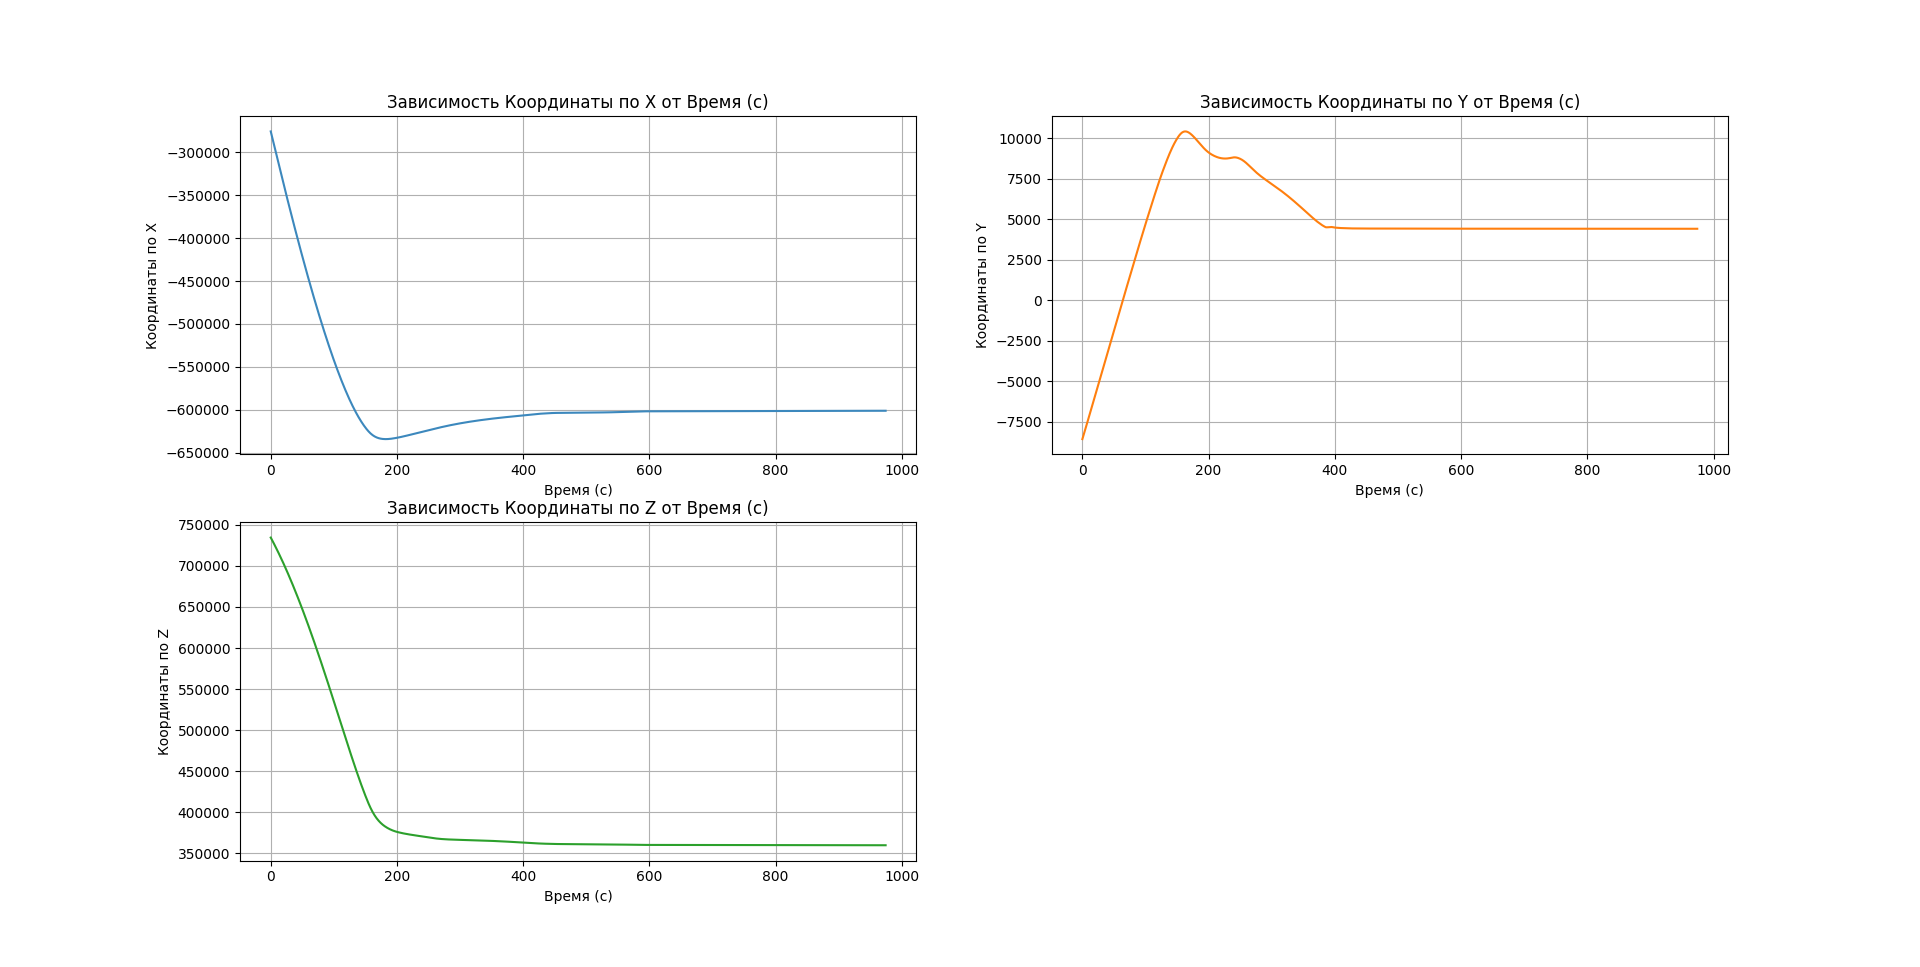
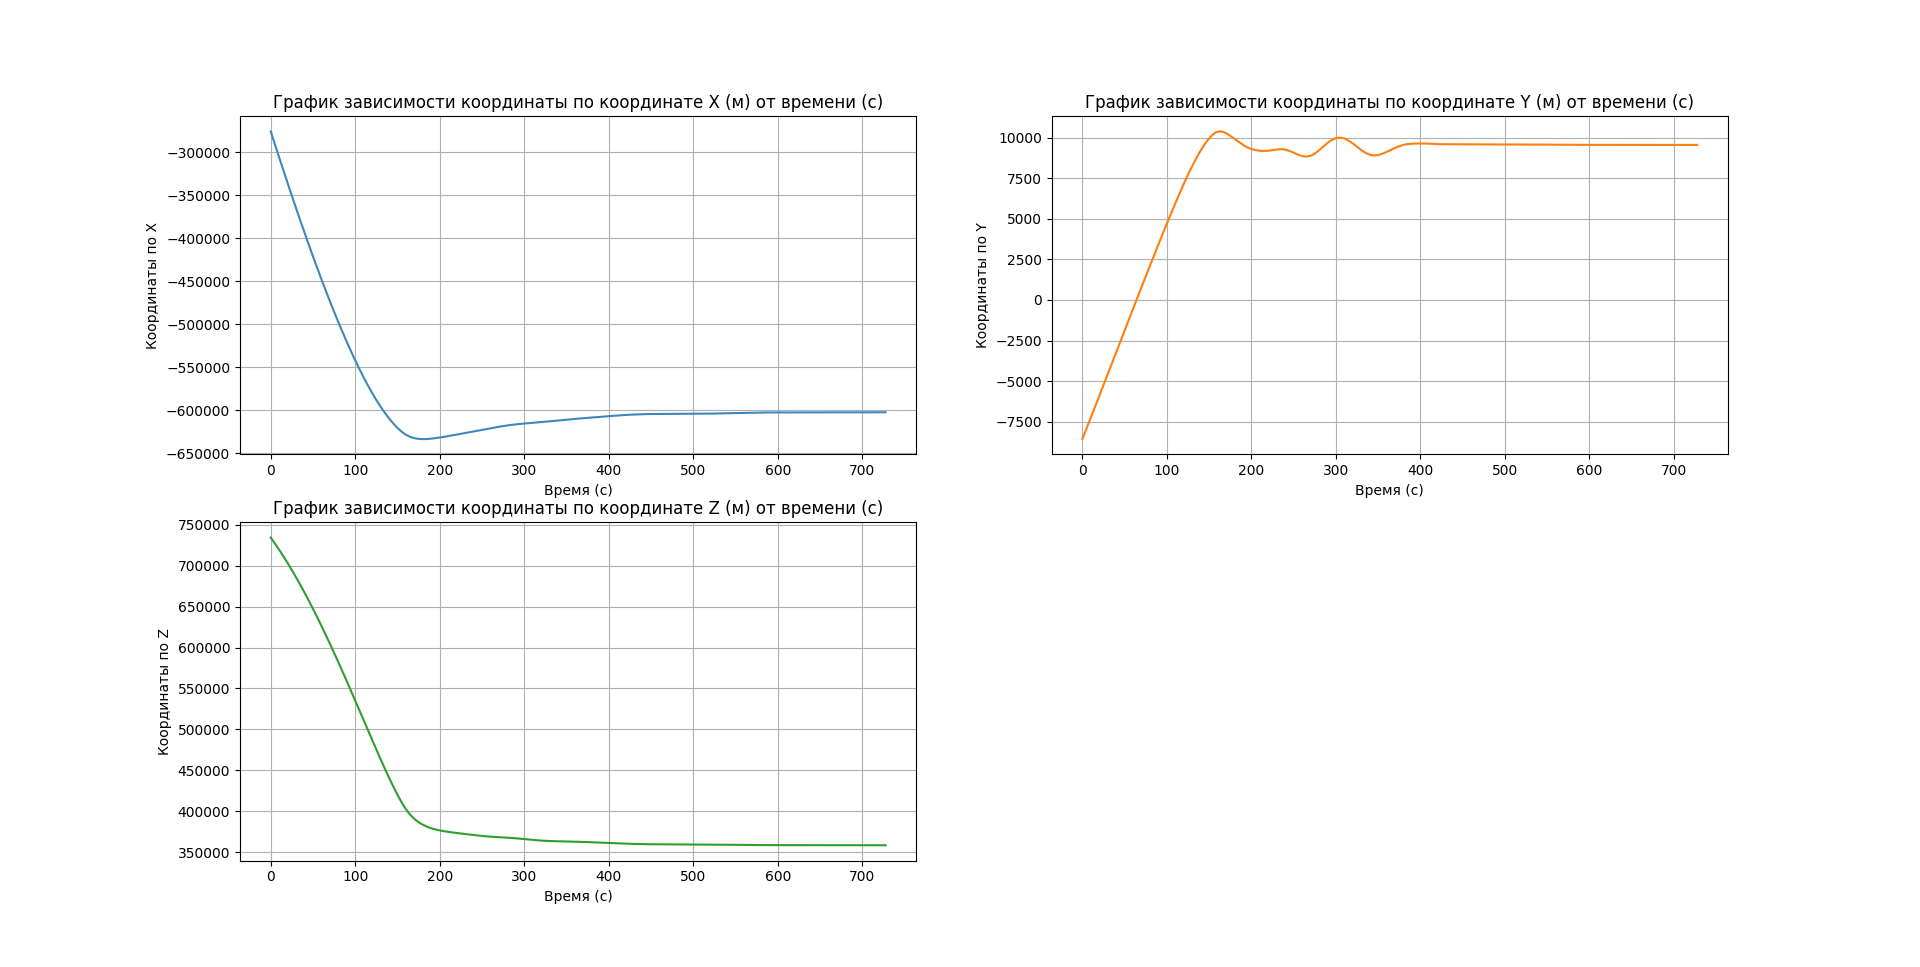
Сбор данных и графики

diff --git a/Graphicts.py b/Graphicts.py
@@ -1,8 +1,9 @@
 import matplotlib
 import numpy as np
-from mpl_toolkits.mplot3d import Axes3D
 
 matplotlib.use('TkAgg')
+from mpl_toolkits.mplot3d import Axes3D
+
 
 import matplotlib.pyplot as plt
 from mpl_toolkits.mplot3d import Axes3D
@@ -19,13 +20,11 @@ position_z = list()
 Pressure = list()
 pos_xmy = list()
 
-def pressure_h(h):
-    H = 7000
-    return 5 * np.exp(-h/H)
 
 with open("result.txt") as file:
+# with open("Result1.txt") as file:
     for i in file.readlines():
-        t, h, vx, vy, vz, sp, pz, py, px = i.split(" ")
+        t, h, vx, vy, vz, sp, pz, py, px, pressure = i.split(" ")
         times.append(float(t))
         height.append(float(h))
         velocity_x.append(float(vx))
@@ -36,44 +35,44 @@ with open("result.txt") as file:
         position_y.append(float(py))
         position_z.append(float(pz))
         pos_xmy.append(abs(float(px) - float(py)))
-        Pressure.append(pressure_h(float(h)))  # Обратите внимание на приведение h к float
+        Pressure.append(float(pressure) / 101325)  # Обратите внимание на приведение h к float
 
-def F(n1, n2, n3, lst_x, lst_y, t_x, t_y, color):
+def F(n1, n2, n3, lst_x, lst_y, t_x, t_y, color, name_graf):
     plt.subplot(n1, n2, n3)
     plt.plot(lst_x, lst_y, color=color)
     plt.xlabel(t_x)
     plt.ylabel(t_y)
     plt.grid()
-    plt.title(f"Зависимость {t_y} от {t_x}")  # Подпись графика
+    plt.title(name_graf)  # Подпись графика
 
 def speed_graf():
     # Окно для графиков скоростей (цвета: синий для X, красный для Y, зеленый для Z, черный для общей скорости)
-    F(2, 2, 1, times, velocity_x, "Время (с)", "Скорость по X (м/c)", '#3c88bd')
-    F(2, 2, 2, times, velocity_y, "Время (с)", "Скорость по Y (м/c)", '#ff7f0e')
-    F(2, 2, 3, times, velocity_z, "Время (с)", "Скорость по Z (м/c)", '#2ca02c')
-    F(2, 2, 4, times, speed, "Время (с)", "Скорость общая (м/c)", 'red')
+    F(2, 2, 1, times, velocity_x, "Время (с)", "Скорость по X (м/c)", '#3c88bd', "График зависимости скорости по координате X (м/c) от времени (с)")
+    F(2, 2, 2, times, velocity_y, "Время (с)", "Скорость по Y (м/c)", '#ff7f0e', "График зависимости скорости по координате Y (м/c) от времени (с)")
+    F(2, 2, 3, times, velocity_z, "Время (с)", "Скорость по Z (м/c)", '#2ca02c', "График зависимости скорости по координате Z (м/c) от времени (с)")
+    F(2, 2, 4, times, speed, "Время (с)", "Скорость общая (м/c)", 'red', "График зависимости общей скорости (м/c) от времени (с)")
 
 def coords_graf():
     # Окно для графиков координат (цвета: синий для X, оранжевый для Y, желтый для Z)
-    F(2, 2, 1, times, position_x, "Время (с)", "Координаты по X", '#3c88bd')
-    F(2, 2, 2, times, position_y, "Время (с)", "Координаты по Y", '#ff7f0e')
-    F(2, 2, 3, times, position_z, "Время (с)", "Координаты по Z", '#2ca02c')
+    F(2, 2, 1, times, position_x, "Время (с)", "Координаты по X", '#3c88bd', "График зависимости координаты по координате X (м) от времени (с)")
+    F(2, 2, 2, times, position_y, "Время (с)", "Координаты по Y", '#ff7f0e', "График зависимости координаты по координате Y (м) от времени (с)")
+    F(2, 2, 3, times, position_z, "Время (с)", "Координаты по Z", '#2ca02c', "График зависимости координаты по координате Z (м) от времени (с)")
 
 def traectory_graf():
     # Окно для траектории (цвета: синий для X-Y, красный для Y-Z, зеленый для Z-X)
-    F(2, 2, 1, position_x, position_y, "Координата по X", "Координата по Y", 'blue')
-    F(2, 2, 2, position_y, position_z, "Координата по Y", "Координата по Z", 'red')
-    F(2, 2, 3, position_z, position_x, "Координата по Z", "Координата по X", 'green')
+    F(2, 2, 1, position_x, position_y, "Координата по X", "Координата по Y", 'blue', "График зависимости координаты Y (м) от координаты X (м)")
+    F(2, 2, 2, position_y, position_z, "Координата по Y", "Координата по Z", 'red', "График зависимости координаты Z (м) от координаты Y (м)")
+    F(2, 2, 3, position_z, position_x, "Координата по Z", "Координата по X", 'green', "График зависимости координаты X (м) от координаты Z (м)")
 
 def height_graf():
     # Окно для графиков высоты (цвета: зеленый для высоты от времени и скорости)
-    F(2, 2, 1, times, height, "Время (с)", "Высота (м)", 'green')
-    F(2, 2, 2, speed, height, "Скорость (м/c)", "Высота (м)", 'green')
+    F(2, 2, 1, times, height, "Время (с)", "Высота (м)", 'green', "График зависимости высоты (м) от времени (с)")
+    F(2, 2, 2, speed, height, "Скорость (м/c)", "Высота (м)", 'green', "График зависимости высоты (м) от скорости (м/c)")
     plt.gca().invert_xaxis()  # Инвертируем ось X, чтобы высота шла справа налево
 
 def pressure_height_graf():
     # График давления от высоты (фиолетовый цвет)
-    F(2, 2, 3, height, Pressure, "Высота (м)", "Давление (Па)", 'purple')
+    F(2, 2, 3, height, Pressure, "Высота (м)", "Давление (Па)", 'purple', "График зависимости давления (Па) от высоты (м)")
 
 def graf_3D(position_x, position_y, position_z):
     # 3D график для траектории (цвета для осей: красный для X, зеленый для Y, синий для Z)

diff --git a/Flight/ksp.py b/Flight/ksp.py
@@ -32,35 +32,30 @@ with open('result.txt', 'w') as file:
         while True:
             # Получаем текущее время
             current_time = conn.space_center.ut
-
-            # Проверяем, прошло ли 1 секунда с последней записи
-            if current_time - last_record_time >= 1:
-                # Обновляем время последней записи
-                last_record_time = current_time
-
-                # Получаем данные
-                altitude = vessel.flight().mean_altitude
-                eva = conn.space_center.bodies['Eve']
-                eva_reference_frame = eva.reference_frame
-                velocity = vessel.velocity(eva_reference_frame)
-                position = vessel.position(eva_reference_frame)
-                speed = (velocity[0]**2 + velocity[1]**2 + velocity[2]**2)**0.5
-
-                # Записываем данные в файл
-                file.write(f"{current_time - start_time} {altitude} {velocity[0]} {velocity[1]} {velocity[2]} {speed} "
-                           f"{position[0]} {position[1]} {position[2]}\n")
-                file.flush()
-
-                # Добавляем данные в списки
-                time_data.append(current_time - start_time)
-                altitude_data.append(altitude)
-                velocity_x_data.append(velocity[0])
-                velocity_y_data.append(velocity[1])
-                velocity_z_data.append(velocity[2])
-                speed_data.append(speed)
-                position_x_data.append(position[0])
-                position_y_data.append(position[1])
-                position_z_data.append(position[2])
+            
+            # Получаем данные
+            # mass = vessel.mass
+            pressure = vessel.flight().static_pressure
+            altitude = vessel.flight().mean_altitude
+            eva = conn.space_center.bodies['Eve']
+            eva_reference_frame = eva.reference_frame
+            velocity = vessel.velocity(eva_reference_frame)
+            position = vessel.position(eva_reference_frame)
+            speed = (velocity[0]**2 + velocity[1]**2 + velocity[2]**2)**0.5
+            # Записываем данные в файл
+            file.write(f"{current_time - start_time} {altitude} {velocity[0]} {velocity[1]} {velocity[2]} {speed} "
+                       f"{position[0]} {position[1]} {position[2]} {pressure}\n")
+            file.flush()
+            # Добавляем данные в списки
+            time_data.append(current_time - start_time)
+            altitude_data.append(altitude)
+            velocity_x_data.append(velocity[0])
+            velocity_y_data.append(velocity[1])
+            velocity_z_data.append(velocity[2])
+            speed_data.append(speed)
+            position_x_data.append(position[0])
+            position_y_data.append(position[1])
+            position_z_data.append(position[2])
 
             vessel_new = conn.space_center.active_vessel
 
